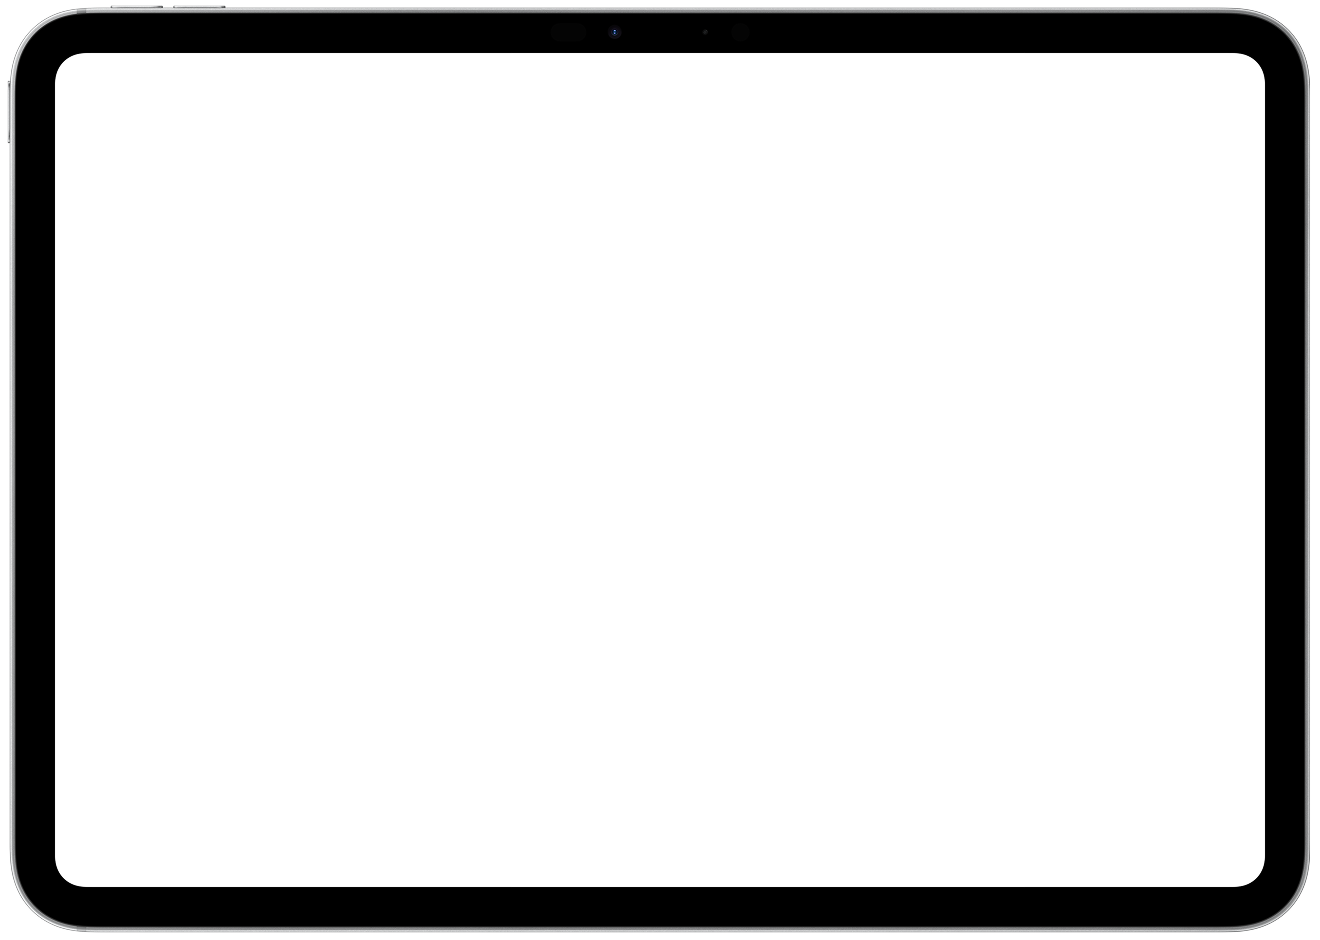
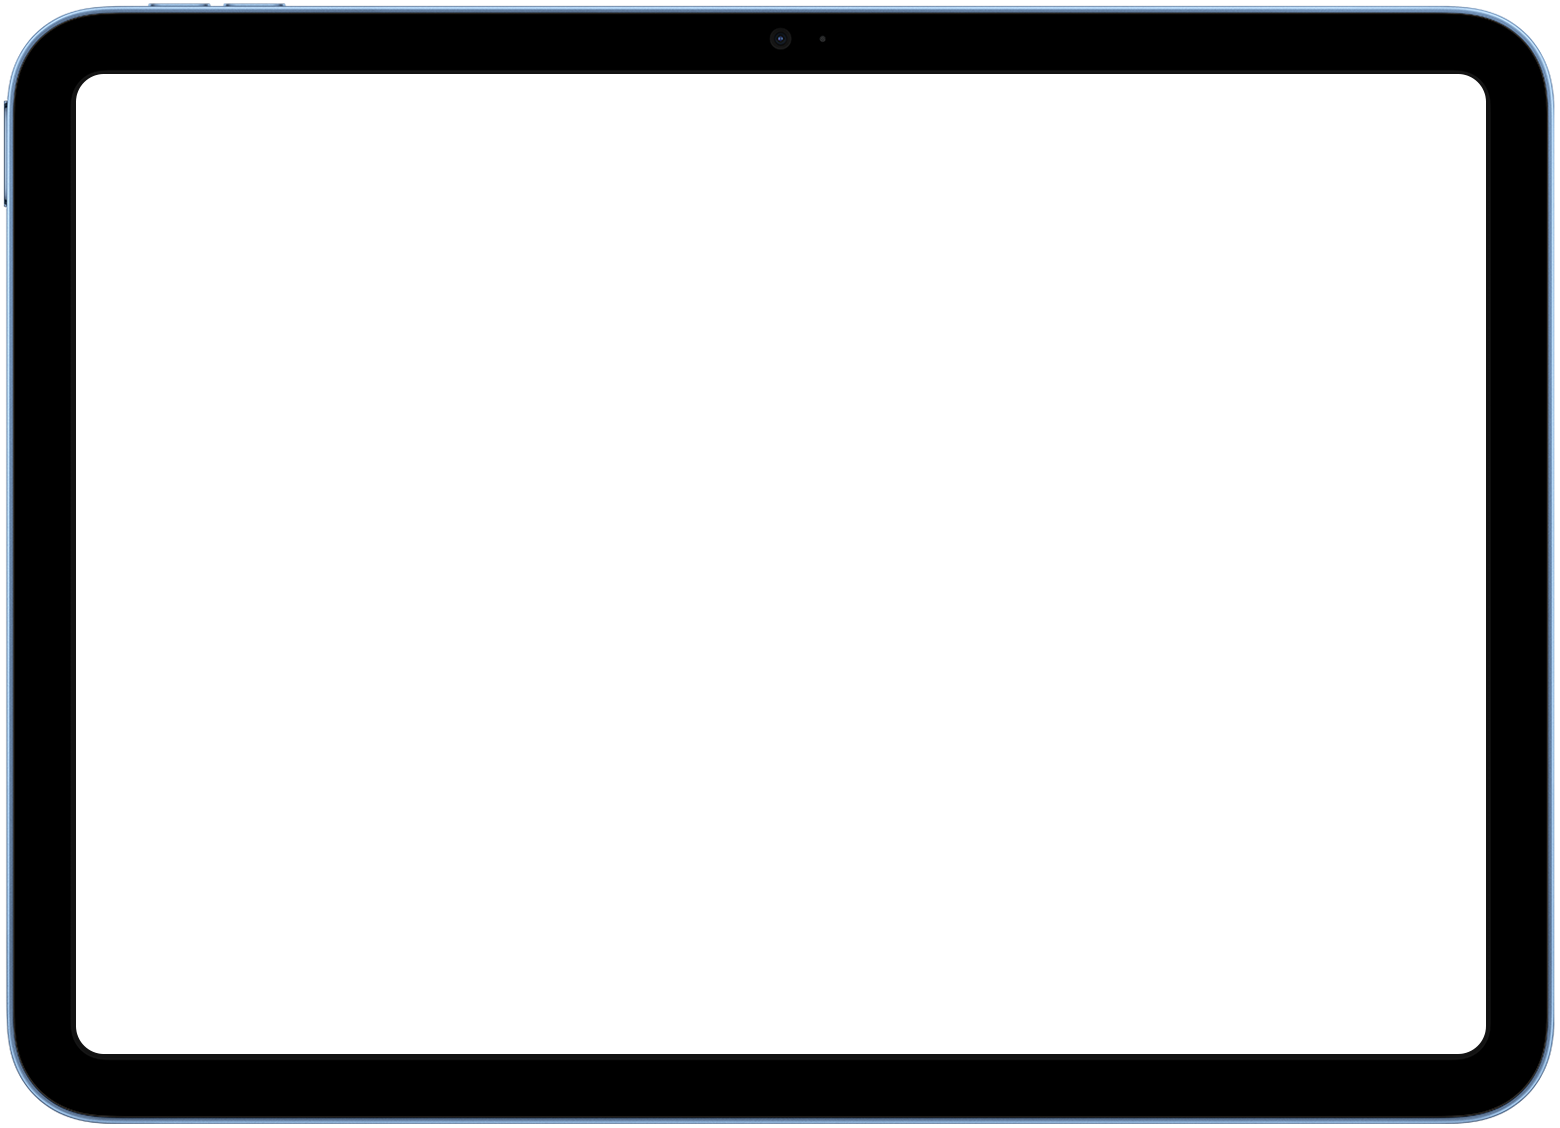
feat(device): replace iPad chassis with Figma 1670:23510 (1300x940, screen 1178x818 @ 61,61); portrait reuses by rotating 90deg

Changed region(s): [[0.0, 0.0, 1.0, 1.0]]

diff --git a/src/components/cards-playground.tsx b/src/components/cards-playground.tsx
@@ -97,13 +97,13 @@ const DEVICE_PRESETS: Record<DeviceKind, DevicePreset> = {
     dropShadow: PHONE_DROP_SHADOW,
   },
   ipad: {
-    // Figma 1646:23248 — 横屏 iPad，1320×940，屏幕 1210×834 偏移 (55, 53)
-    W: 1320,
+    // Figma 1670:23510 — 横屏 iPad，1300×940，屏幕 1178×818 偏移 (61, 61)
+    W: 1300,
     H: 940,
-    SCREEN_OFFSET_X: 55,
-    SCREEN_OFFSET_Y: 53,
-    SCREEN_W: 1210,
-    SCREEN_H: 834,
+    SCREEN_OFFSET_X: 61,
+    SCREEN_OFFSET_Y: 61,
+    SCREEN_W: 1178,
+    SCREEN_H: 818,
     SCREEN_RADIUS: 36,
     VISUAL_PAD_TOP: 140,
     VISUAL_PAD_RIGHT: 320,
@@ -115,15 +115,15 @@ const DEVICE_PRESETS: Record<DeviceKind, DevicePreset> = {
     framePngSrc: "/figma/category/ipad-frame.png",
     dropShadow: IPAD_DROP_SHADOW,
   },
-  // 竖屏 iPad — 复用同一张 ipad-frame.png，PNG 顺时针旋转 90° 显示
-  // 整体尺寸从 1320×940 交换为 940×1320，屏幕区域同步交换偏移与尺寸
+  // 竖屏 iPad — 复用横屏 ipad-frame.png，PNG 顺时针旋转 90° 显示
+  // 横屏 1300×940 旋转 90° 后变为 940×1300；屏幕区域 (61,61)/1178×818 旋转 90° 后变 (61,61)/818×1178
   "ipad-portrait": {
     W: 940,
-    H: 1320,
-    SCREEN_OFFSET_X: 53,
-    SCREEN_OFFSET_Y: 55,
-    SCREEN_W: 834,
-    SCREEN_H: 1210,
+    H: 1300,
+    SCREEN_OFFSET_X: 61,
+    SCREEN_OFFSET_Y: 61,
+    SCREEN_W: 818,
+    SCREEN_H: 1178,
     SCREEN_RADIUS: 36,
     VISUAL_PAD_TOP: 140,
     VISUAL_PAD_RIGHT: 320,
@@ -134,7 +134,7 @@ const DEVICE_PRESETS: Record<DeviceKind, DevicePreset> = {
     FRAME_NUDGE_Y: 0,
     framePngSrc: "/figma/category/ipad-frame.png",
     chassisRotateDeg: 90,
-    chassisSrcW: 1320,
+    chassisSrcW: 1300,
     chassisSrcH: 940,
     dropShadow: IPAD_DROP_SHADOW,
   },
